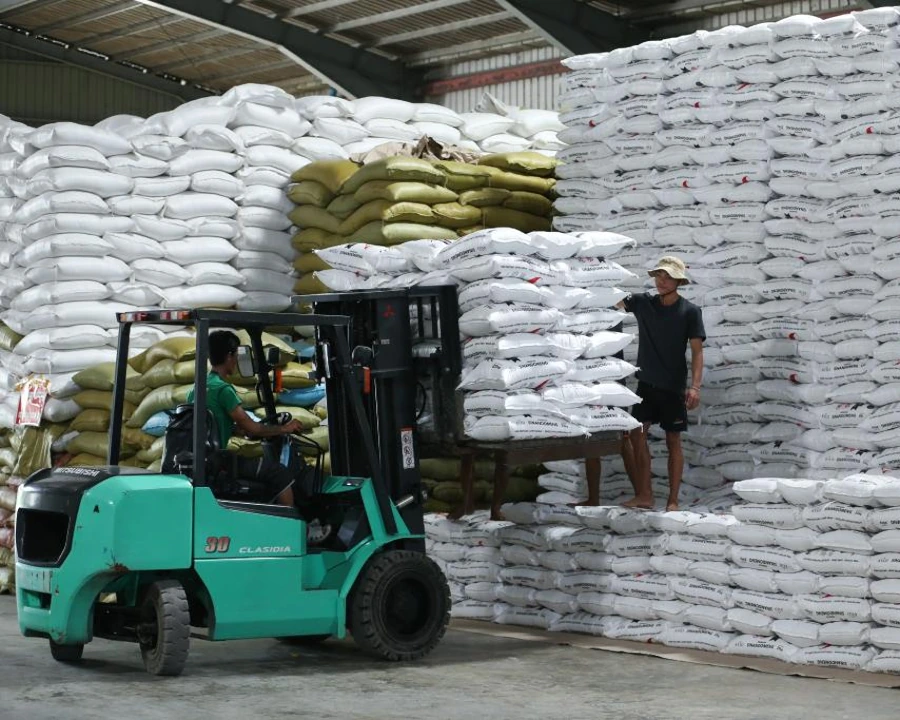
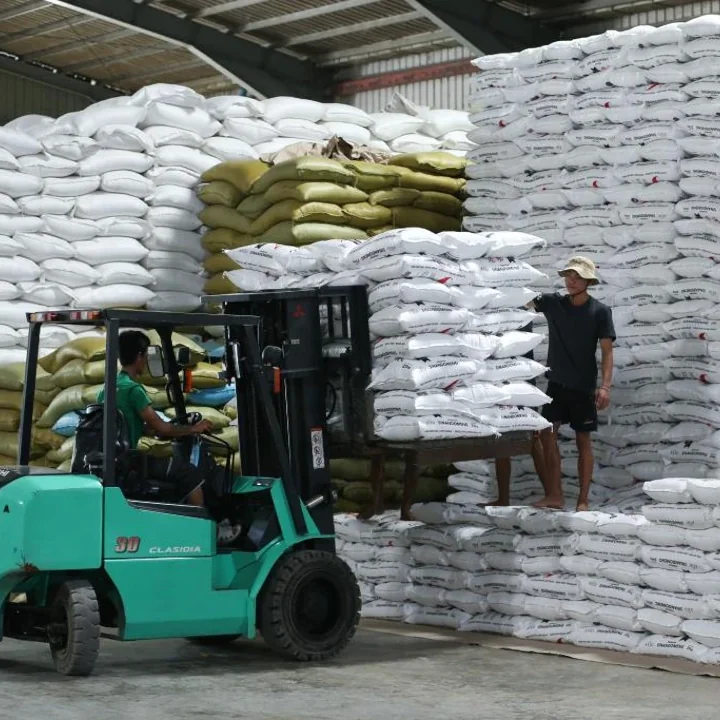
Minor UI bugs fixed

diff --git a/src/components/sections/trust/data.ts b/src/components/sections/trust/data.ts
@@ -1,5 +1,5 @@
 export const trustSection = {
-  title: "Trust & Relationships",
+  title: "Built on Trust",
 
   subheading1_1: "Building business through ",
   subheading1_2: "trusted relationships and clear coordination.",

diff --git a/src/components/sections/environment/data.ts b/src/components/sections/environment/data.ts
@@ -1,4 +1,4 @@
-import img from "./assets/trade-hub-01.webp";
+import img from "./assets/trade-hub-05.webp";
 
 export const environmentalImpactSection = {
   title: "Singapore Trading Hub",
